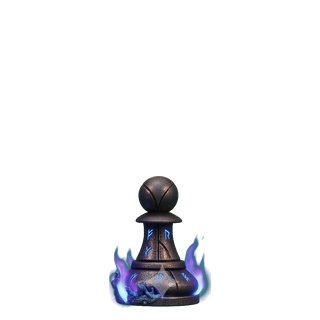
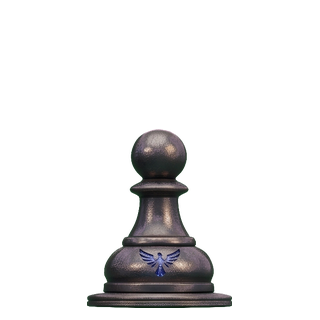
Take black from the sheet's first row, for its proportions
The sheet offers two designs, one per row. The second is the louder one --
violet flame, runes -- and it was the first choice. The first row is what
ships, and the reason is arithmetic rather than taste: its pawn is drawn at
two thirds of its king, where the other row's is at half.

That matters because a row is scaled as a unit, by whatever makes its tallest
piece fit. Every other piece inherits the ratios the sheet drew, so a squat
pawn there becomes a pawn that disappears on the board -- 132 pixels against
white's 219, which is what shipped an hour ago. From this row it lands at 179
and the two sides sit together.

Claude-Session: https://claude.ai/code/session_01LiXZnuzu6WQwHSooUohDJq

Changed region(s): [[0.25, 0.4062, 0.75, 0.9688]]

diff --git a/assets/board/README.md b/assets/board/README.md
@@ -8,8 +8,8 @@ browser will actually load.
 
 `wK wQ wR wB wN wP` and the same with `b`. PNG with an alpha channel, 320x320.
 
-Copper and warm flame for white; blackened steel and cold violet fire, with
-runes, for black. The knight is a bird of prey rather than a horse: Kestrel is
+Copper and warm flame for white; blackened steel with cold blue light for
+black, a raven on its king. The knight is a bird of prey rather than a horse: Kestrel is
 a falcon.
 
 **The two sides are not one set in two colours** -- they are separate designs,
@@ -30,10 +30,14 @@ Heights as shipped, in pixels of the 320 canvas:
 | | K | Q | R | B | N | P |
 |---|---|---|---|---|---|---|
 | white | 296 | 252 | 289 | 252 | 281 | 219 |
-| black | 266 | 250 | 227 | 219 | 235 | 132 |
+| black | 266 | 206 | 189 | 206 | 204 | 179 |
 
-The black pawn is the one place the two sheets disagree sharply: it is drawn at
-half its king where white's is at three quarters. Left as drawn.
+`pretas-fonte.png` holds two alternative designs, one per row, and the **first**
+is the one used. Not for its look -- for its proportions. In the second row the
+pawn is drawn at half its king; here it is at two thirds, which is close to
+white's three quarters. Scaling a row so its tallest piece fits means every
+other piece inherits that row's internal ratios, so a squat pawn in the sheet
+becomes a pawn that disappears on the board.
 
 ## Rebuilding them
 
@@ -41,12 +45,11 @@ Two sheets, because the sides were generated separately:
 
 ```
 python3 recorta_pecas.py pecas-fonte.jpeg  . "w,-"  296   # brancas: 1a fila
-python3 recorta_pecas.py pretas-fonte.png  . "-,b"  266   # pretas:  2a fila
+python3 recorta_pecas.py pretas-fonte.png  . "b,-"  266   # pretas:  1a fila
 ```
 
 The third argument says what each row of the sheet is, top to bottom -- `w`,
-`b`, or `-` to skip. `pretas-fonte.png` offers two alternative designs and only
-the second is used. The fourth is how tall that row's tallest piece ends up.
+`b`, or `-` to skip. The fourth is how tall that row's tallest piece ends up.
 
 Two things in there are worth knowing before changing it. The row bands are
 **measured** from the image's own row profile rather than guessed, because the
